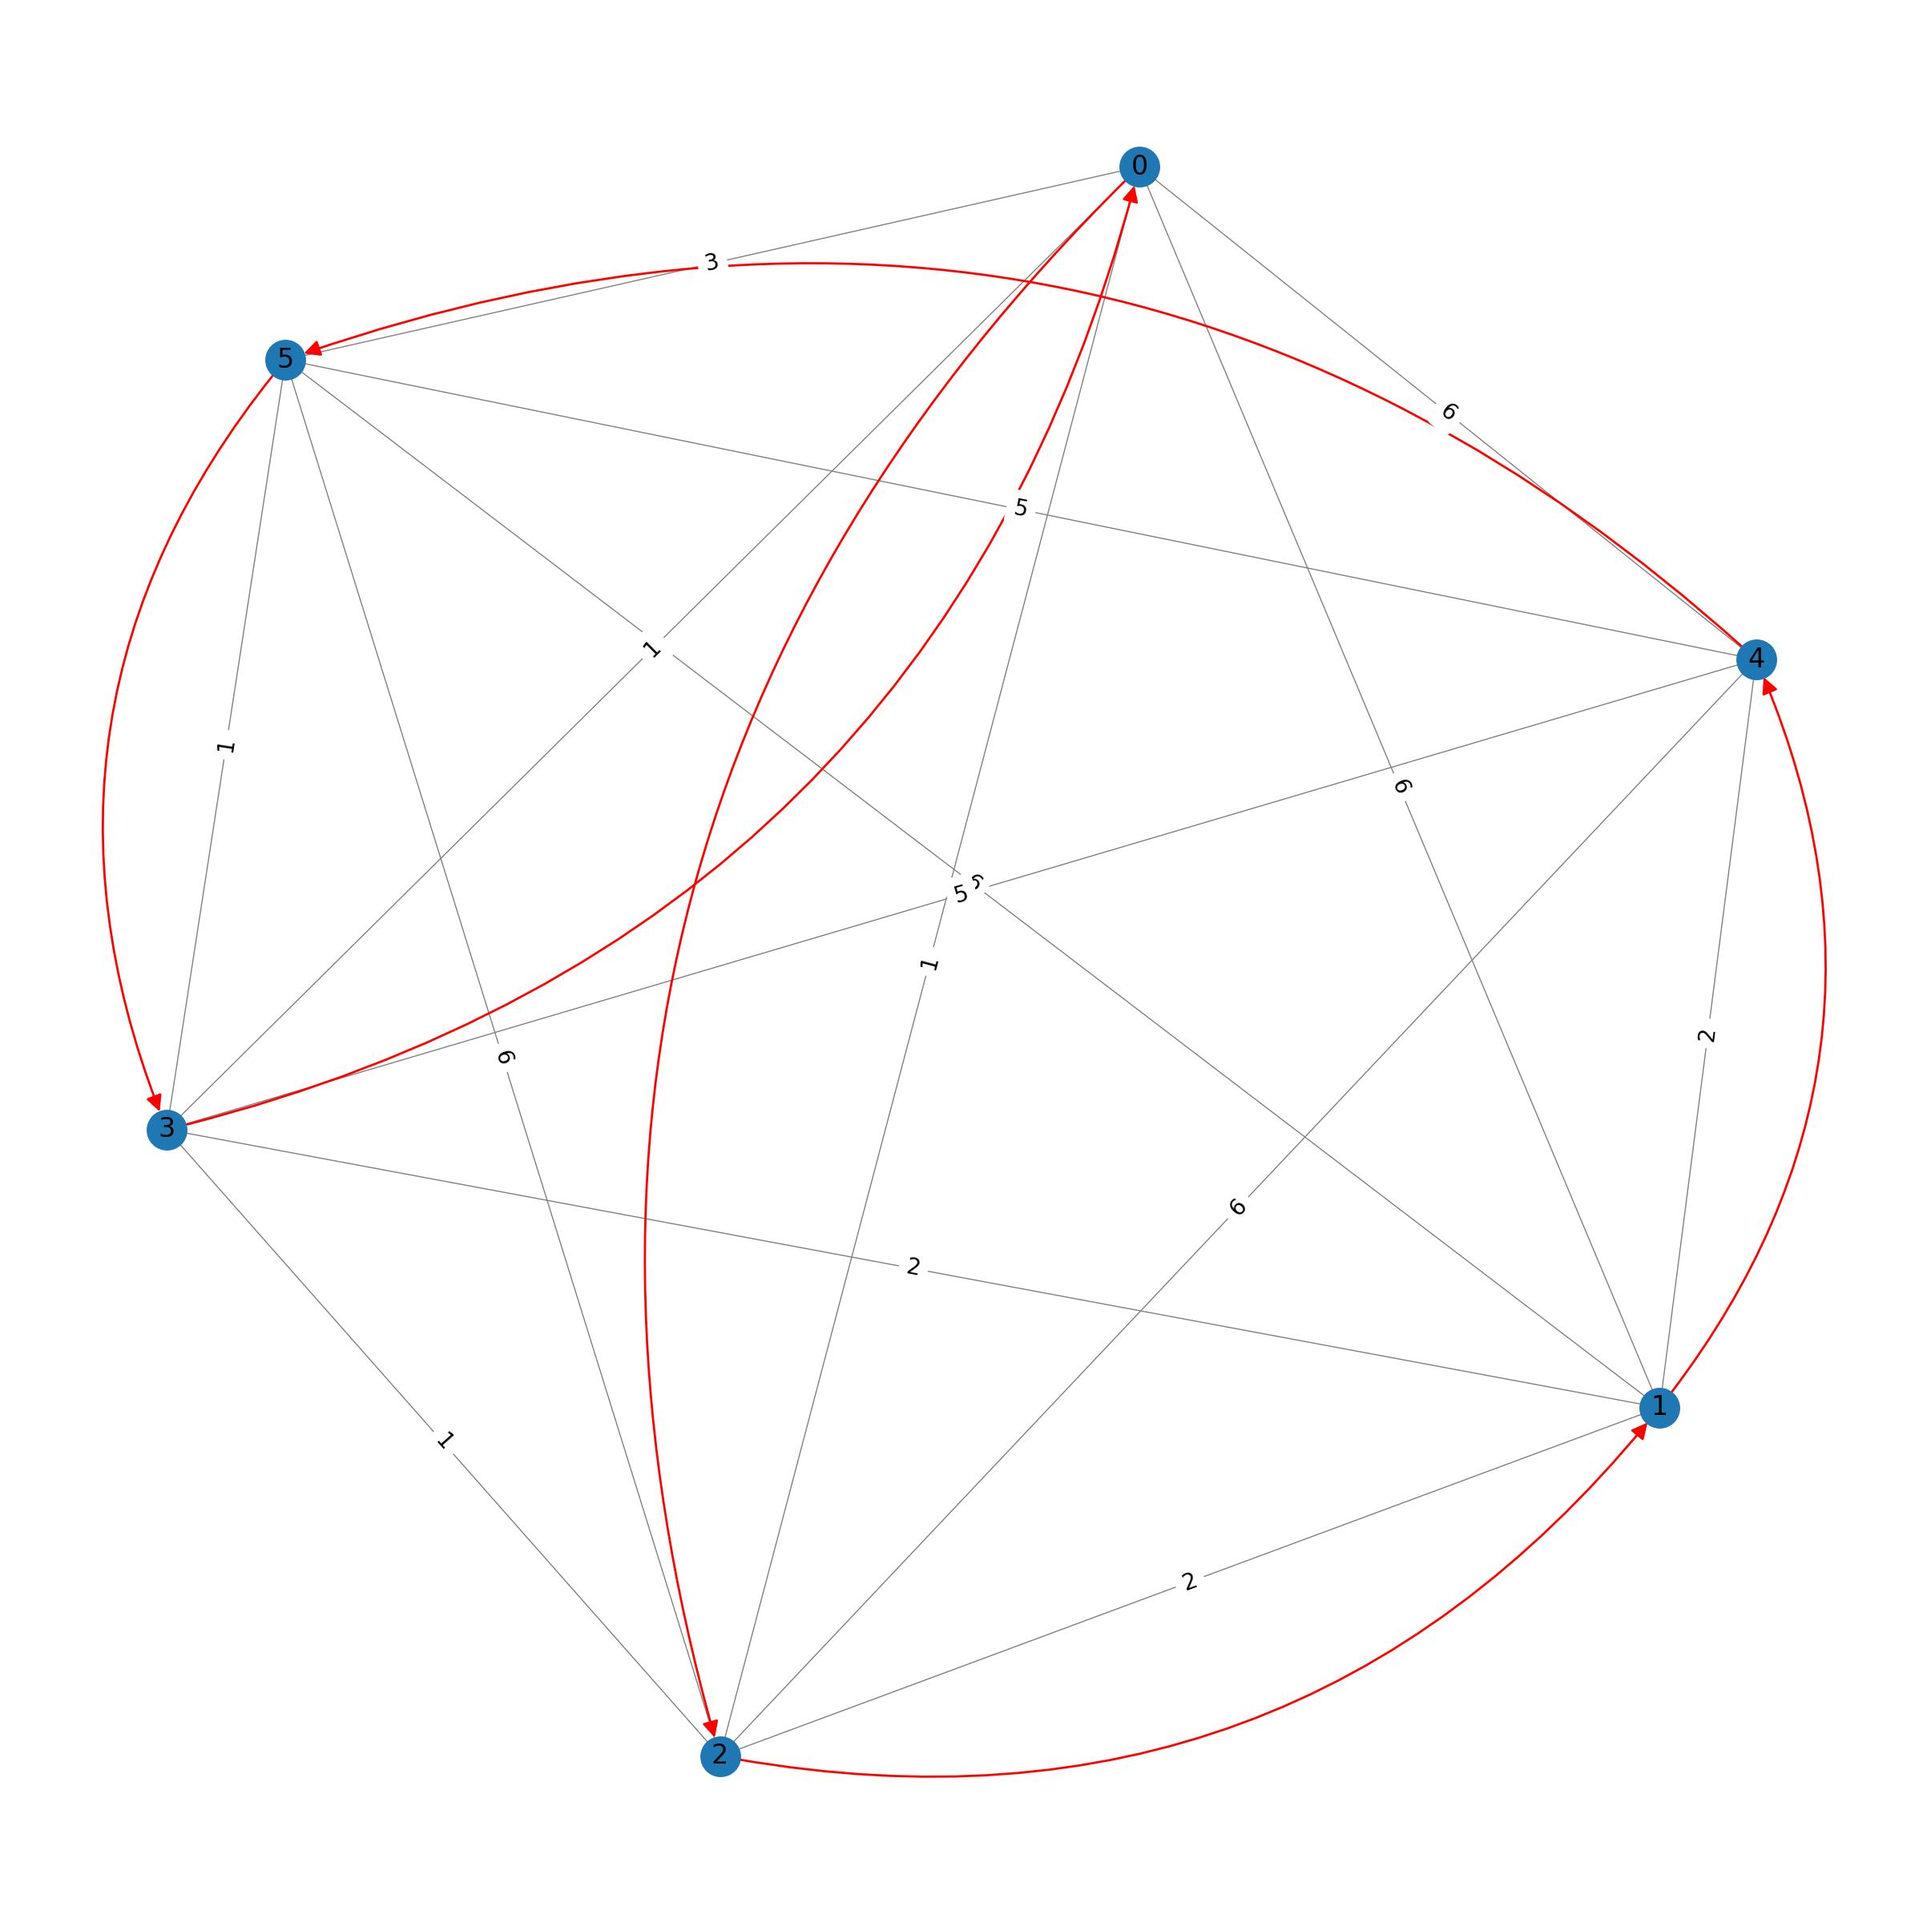
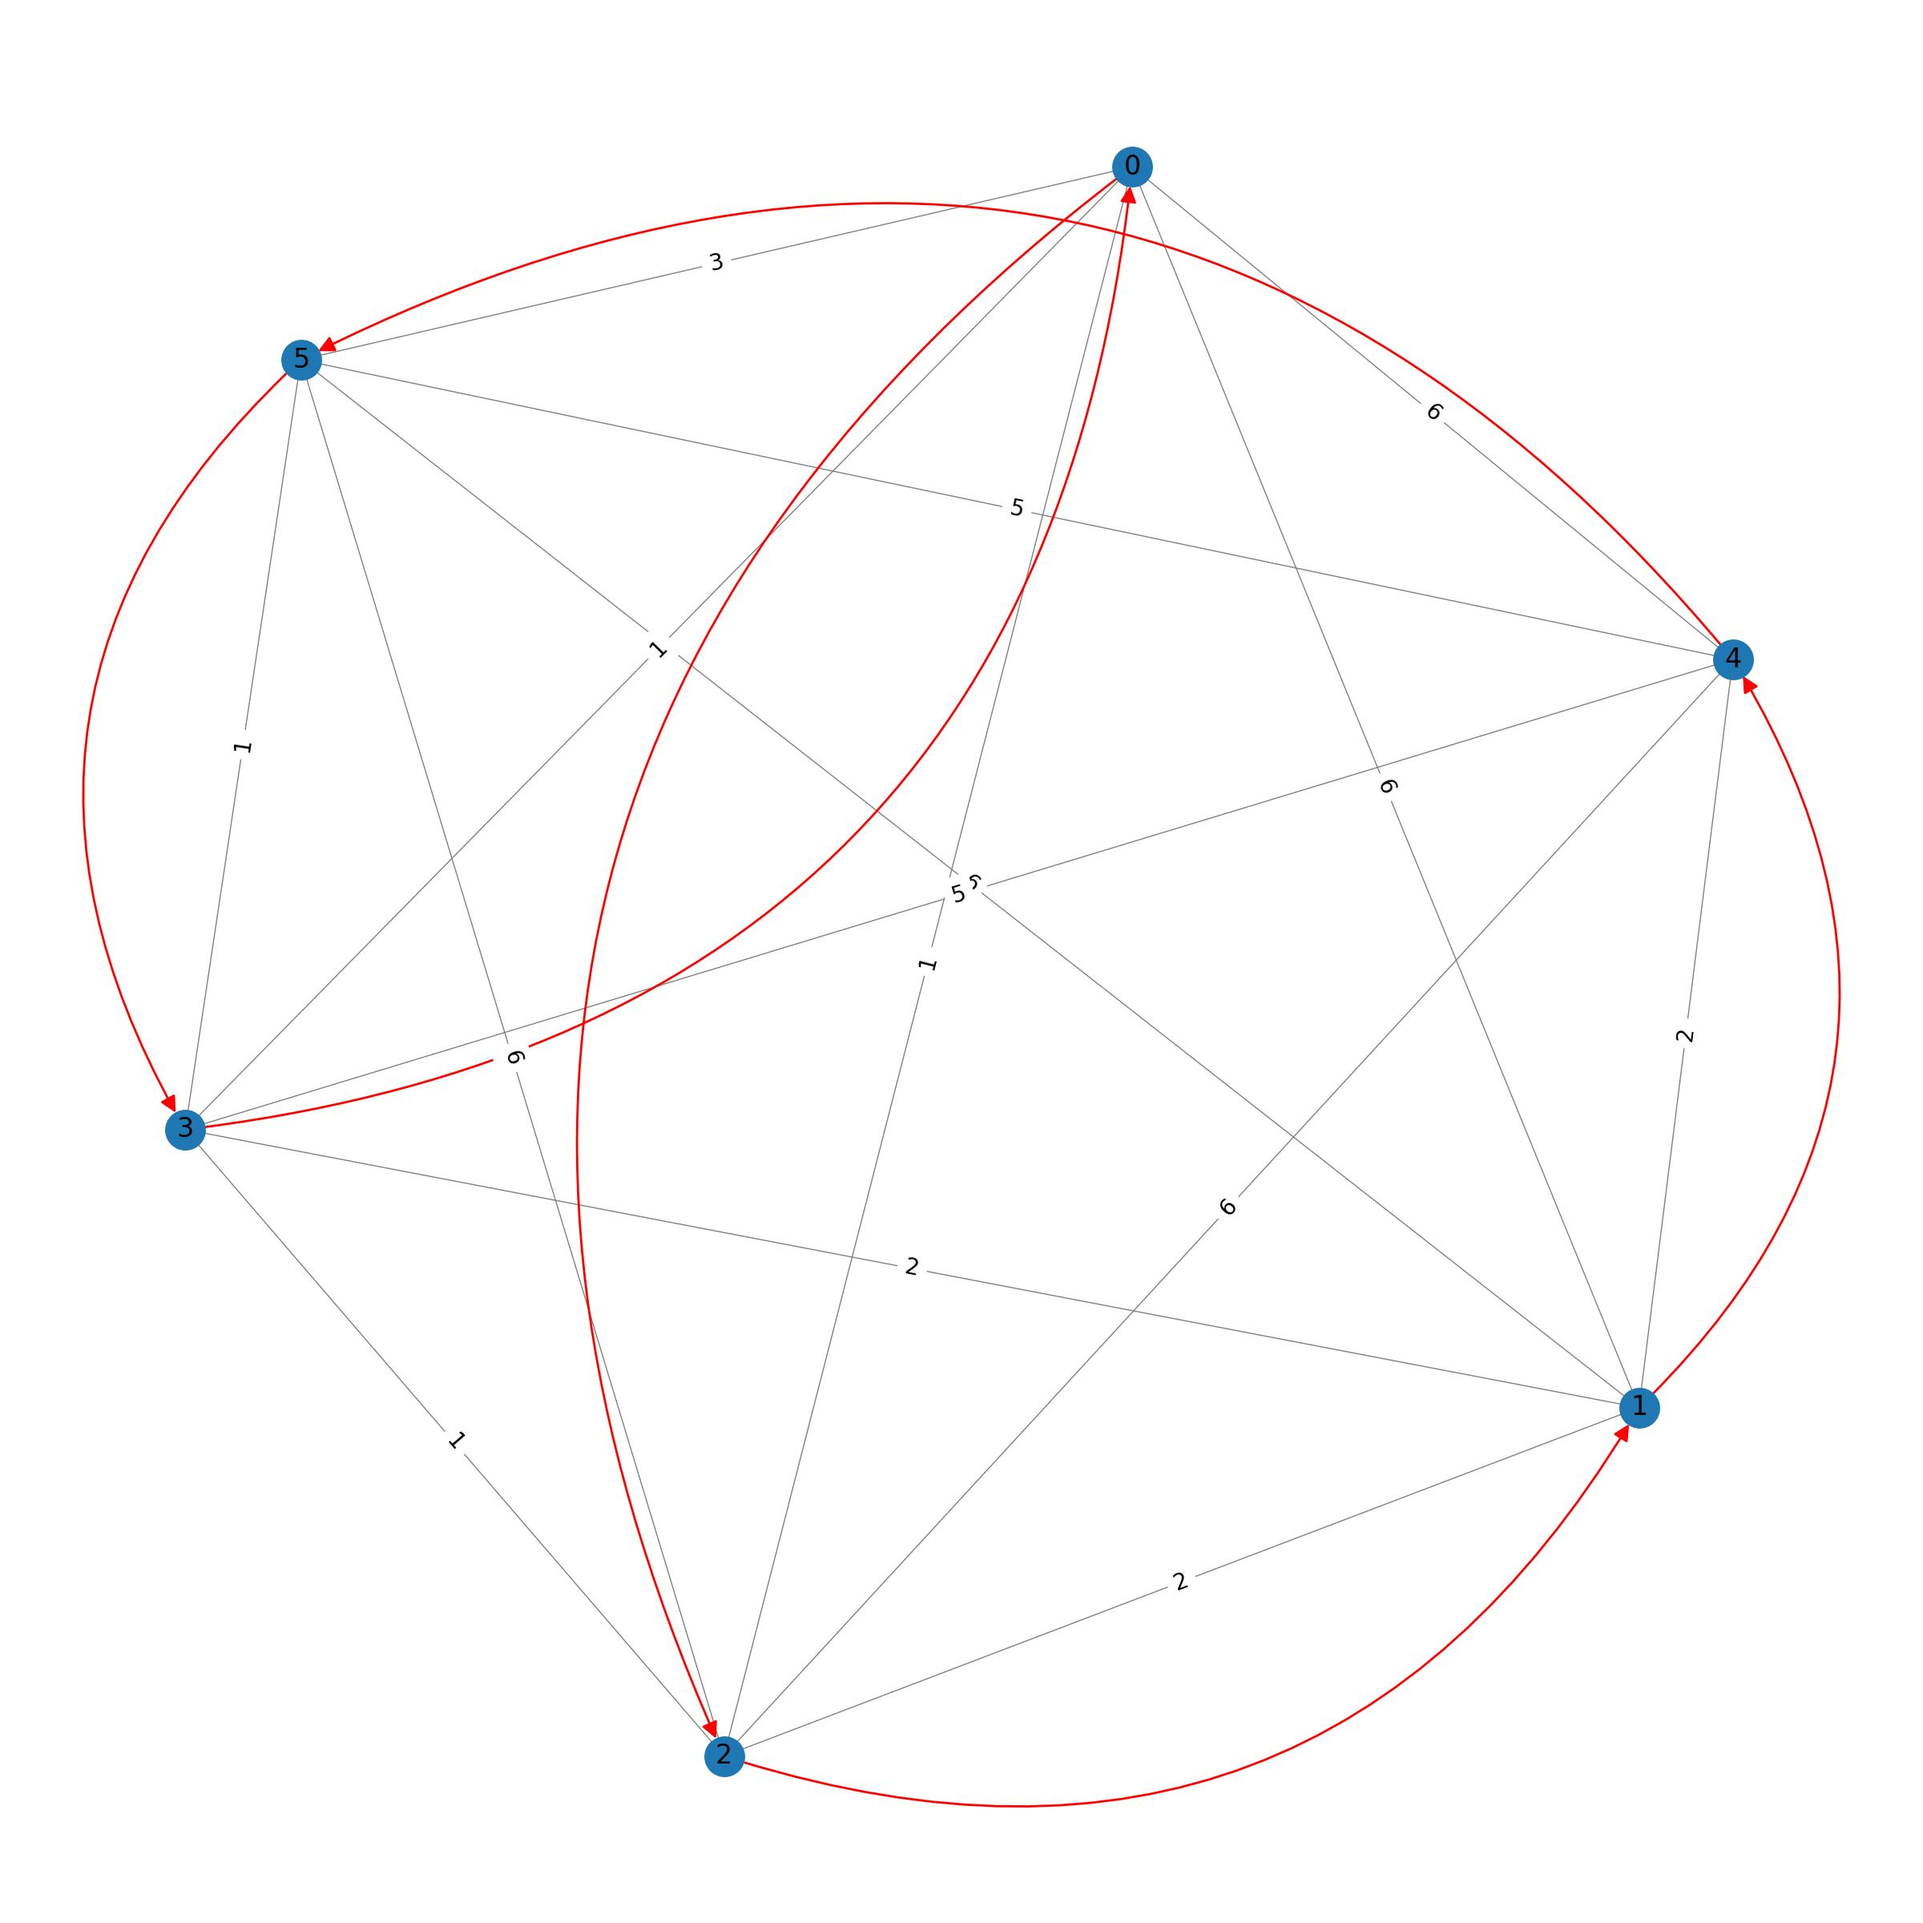
pr2_tsp_symmetric

diff --git a/data_warehouse/src/pr2_tsp_symmetric/__main__.py b/data_warehouse/src/pr2_tsp_symmetric/__main__.py
@@ -160,7 +160,7 @@ def visualize_shortest_path(graph, best_route):
         edgelist=best_route_edges,
         edge_color="r",
         width=1,
-        connectionstyle="arc3,rad=0.3",
+        connectionstyle="arc3,rad=0.4",
         arrowsize=15,
         arrows=True,
         arrowstyle="-|>",
